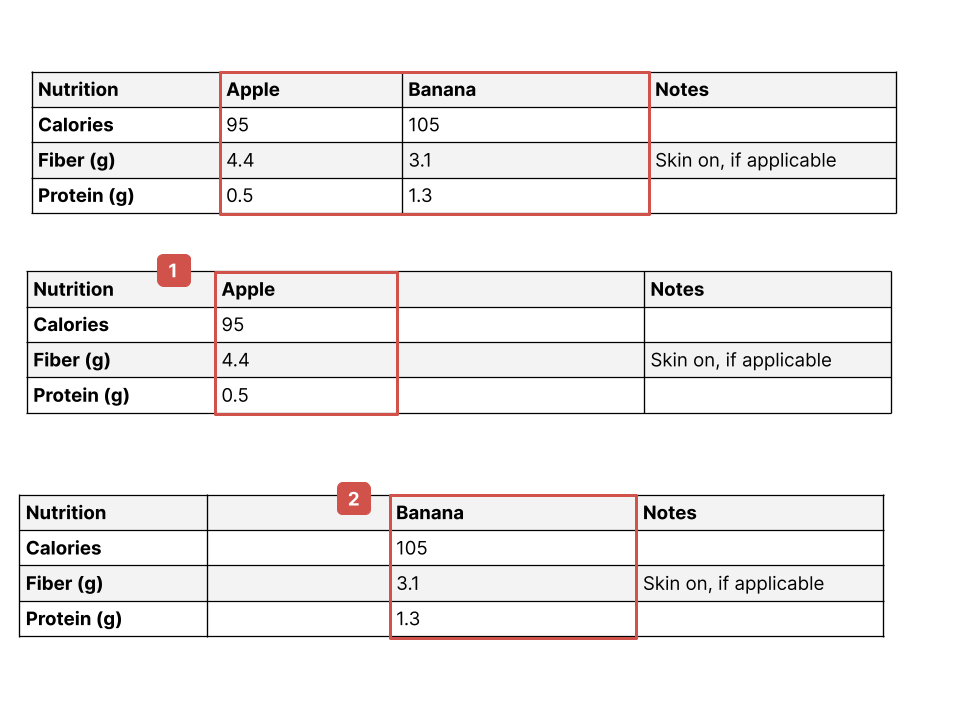
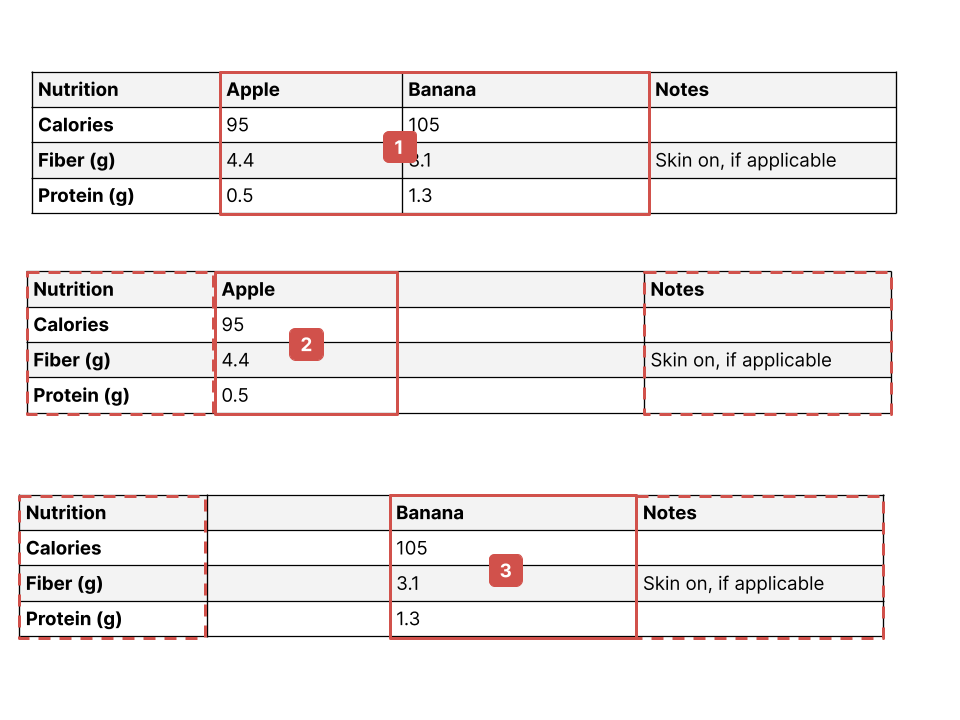
vertical sections stop

diff --git a/readme-sync/v0/welcome/3000 - concepts/3600 - section-nuances.md b/readme-sync/v0/welcome/3000 - concepts/3600 - section-nuances.md
@@ -56,7 +56,11 @@ Use the Column Selection parameter with vertical sections to:
 For example, if you exclude the first and last columns by configuring `"columnSelection": [[1,-2]]` for the table in the following image, then:
 
 1. Sensible selects the Apples and Bananas columns for output.
-2. For the Apples column, Sensible creates a section that is a table slice containing the Apples column, with Nutrition and Notes columns available as anchors. For example, you can extract the cell containing `95` in the Apples column with:
+2. For the Apples column, Sensible creates a section that is a table slice containing:
+   1. the Apples column
+   2. the Nutrition and Notes, columns available as anchors.
+   For example, you can extract the cell containing `95` in the Apples column with:
+
 
   ```json
       {
@@ -69,11 +73,11 @@ For example, if you exclude the first and last columns by configuring `"columnSe
          }
   ```
 
-3. The section containing Banana data has the same Nutrition and Notes anchoring candidates available, where the anchors keep the spatial layout of the original table in relationship to the target columns.  For example, you can find the cell containing `105` in the Bananas column using the *same* `fruit_calories` field as in the preceding step. 
+3. The Banana column has access to the same anchoring information in the same spatial layout. For example, you can find the cell containing `105` in the Bananas column using the *same* `fruit_calories` field as in the preceding step. 
 
 ![Click to enlarge](https://raw.githubusercontent.com/sensible-hq/sensible-docs/main/readme-sync/assets/v0/images/final/vertical_section_column_selection.png)
 
-For details about this example, see [Labeled rows and labeled columns table example](doc:sections-example-labeled-rows)
+For more information about this example, see [Labeled rows and labeled columns table example](doc:sections-example-labeled-rows)
 
 Multiple anchors in section
 ----
